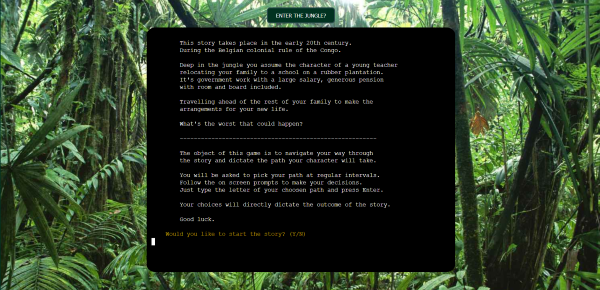
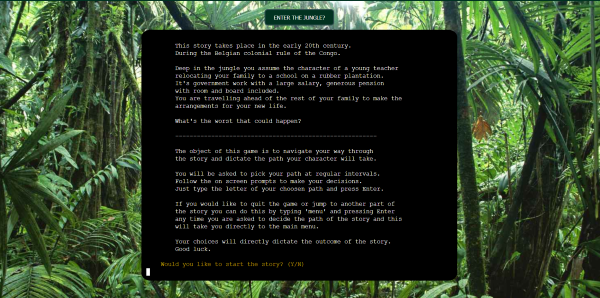
roulette game reworked to include ascii art as prompts

diff --git a/run.py b/run.py
@@ -45,24 +45,23 @@ def russian_roulette():
         Checks if you're dead and continues accordingly.
         '''
         clear_terminal()
-        print(Fore.LIGHTBLUE_EX + ascii_art.CLICK)
-        time.sleep(2)
+        print(Fore.LIGHTBLACK_EX + ascii_art.CLICK)
+        time.sleep(1.5)
         print(Style.RESET_ALL)
         shot = barrel[random.randrange(0, len(barrel))]
         barrel.remove(shot)
         if shot == kill_shot:
             clear_terminal()
             print(Fore.RED + ascii_art.BANG)
-            time.sleep(2)
             game_over()
         else:
             clear_terminal()
-            print(Fore.LIGHTBLUE_EX + ascii_art.EMPTY)
-            time.sleep(2)
+            print(Fore.LIGHTGREEN_EX + ascii_art.EMPTY)
+            time.sleep(1.5)
             clear_terminal()
-            print(Fore.LIGHTBLUE_EX + ascii_art.SURVIVE)
+            print(Fore.CYAN + ascii_art.SURVIVE)
             print(Style.RESET_ALL)
-            time.sleep(2)
+            time.sleep(1.5)
             comp_shot()
 
     def comp_shot():
@@ -72,22 +71,25 @@ def russian_roulette():
         shot = barrel[random.randrange(0, len(barrel))]
         barrel.remove(shot)
         txt_effect(narrative.MANS_TURN)
-        time.sleep(2)
+        time.sleep(1.5)
         clear_terminal()
-        print(Fore.LIGHTBLUE_EX + ascii_art.CLICK)
+        print(Fore.LIGHTBLACK_EX + ascii_art.CLICK)
         if shot == kill_shot:
-            time.sleep(2)
+            time.sleep(1.5)
             clear_terminal()
             print(Fore.RED + ascii_art.BANG)
             print(Style.RESET_ALL)
-            time.sleep(2)
+            time.sleep(1.5)
             survive_game_enter_office()
         else:
-            time.sleep(2)
+            time.sleep(1.5)
             clear_terminal()
-            print(Fore.LIGHTBLUE_EX + ascii_art.EMPTY)
-            time.sleep(2)
+            print(Fore.LIGHTGREEN_EX + ascii_art.EMPTY)
+            time.sleep(1.5)
+            clear_terminal()
+            print(Fore.CYAN + ascii_art.YOUR_TURN)
             print(Style.RESET_ALL)
+            time.sleep(1.5)
             pull_trigger()
 
     pull_trigger()
@@ -253,6 +255,8 @@ def menu():
     elif option == 'q':
         game_over_alive()
     else:
+        print('This is an invalid selection....Please try again...')
+        time.sleep(2)
         menu()
 
 
@@ -260,11 +264,11 @@ def txt_effect(text_to_print):
     '''
     This prints all of the text slowly.
     # '''
-    for character in text_to_print:
-        sys.stdout.write(character)
-        sys.stdout.flush()
-        time.sleep(0.05)
-    # print(text_to_print)
+    # for character in text_to_print:
+    #     sys.stdout.write(character)
+    #     sys.stdout.flush()
+    #     time.sleep(0.05)
+    print(text_to_print)
 
 
 def clear_terminal():
@@ -320,7 +324,6 @@ def begin_game():
     Asks you to begin the game, prints the first
     paragraph and loads the first choice.
     '''
-
     print()
     answer = input(
         Fore.YELLOW + '    Would you like to start the story? (Y/N)\n').lower()
@@ -338,7 +341,7 @@ def begin_game():
                          stay_with_boat
                          )
     elif answer == 'n':
-        game_over()
+        game_over_alive()
     elif answer == 'menu':
         menu()
     else:
@@ -355,8 +358,10 @@ print(Style.RESET_ALL)
 time.sleep(.5)
 name = input('  Please enter your name to continue.......').capitalize()
 while not name or len(name) > 50:
-    name = input('''    Ooops too long, Max of 50 characters...\n
-    Please enter your name to continue....\n''').capitalize()
+    name = input(narrative.NAME_VALIDATION_ERROR).capitalize()
+# while not len(name) < 50:
+#     name = input('''    Ooops too long, Max of 50 characters...\n
+#     Please enter your name to continue....\n''').capitalize()
 
 
 intro_text = f"""

diff --git a/narrative.py b/narrative.py
@@ -1,9 +1,18 @@
 """
 This is the narrative for the story
 """
+
 GO_FISHING = False
 FISH_CAUGHT = 0
 TOTAL_DRINKS = 1
+
+
+NAME_VALIDATION_ERROR = '''
+        Input Invalid
+        Your name must be shorter than 50 characters.
+        Your name cannot be left empty.\n
+        Please enter your name to continue.....
+'''
 
 TITLE_TEXT = '''
         This story takes place in the early 20th century.
@@ -541,59 +550,59 @@ END = '''
 
 '''
 MENU = '''
-                        Where would you like to go?
+                    Where would you like to go?
 
-                                . Act 1
+                    . Act 1
 
-                                . Act 2
+                    . Act 2
 
-                                . Act 3
+                    . Act 3
 
-                                . Quit
+                    . Quit
 
-                        Type 1, 2, 3 or Q followed by Enter to choose.
+                    Type 1, 2, 3 or Q followed by Enter to choose.
 
 '''
 
 ACT_1 = '''
-                Which choice would you like to start with?
+                    Which choice would you like to start with?
 
-                1. Volunteer or Stay on boat?
+                    1. Volunteer or Stay on boat?
 
-                2. Escape boat or Stay to help?
+                    2. Escape boat or Stay to help?
 
-                3. Get angry or Stay calm?
+                    3. Get angry or Stay calm?
 
-                4. Bourbon or Water?
+                    4. Bourbon or Water?
 
-                Chose incorrectly and you will be redirected to
-                the main menu.
+                    Chose incorrectly and you will be redirected to
+                    the main menu.
 '''
 
 ACT_2 = '''
-                Which choice would you like to start with?
+                    Which choice would you like to start with?
 
-                1. Go to the office or the bar?
+                    1. Go to the office or the bar?
 
-                2. Drink or Gamble?
+                    2. Drink or Gamble?
 
-                3. Talk to the girl??
+                    3. Talk to the girl??
 
-                Chose incorrectly and you will be redirected to
-                the main menu.
+                    Chose incorrectly and you will be redirected to
+                    the main menu.
 '''
 
 ACT_3 = '''
-                Which choice would you like to start with?
+                    Which choice would you like to start with?
 
-                1. Begin Act 3?
+                    1. Begin Act 3?
 
-                2. Stay with Ishmel or go with the men?
+                    2. Stay with Ishmel or go with the men?
 
-                3. Board the old boat or wait for the men?
+                    3. Board the old boat or wait for the men?
 
-                4. Leave Africa or go to the plantation?
+                    4. Leave Africa or go to the plantation?
 
-                Chose incorrectly and you will be redirected to
-                the main menu.
+                    Chose incorrectly and you will be redirected to
+                    the main menu.
 '''

diff --git a/ascii_art.py b/ascii_art.py
@@ -202,7 +202,7 @@ CLICK = '''
 
 
 
-                        ██████╗██╗     ██╗ ██████╗██╗  ██╗
+                         ██████╗██╗     ██╗ ██████╗██╗  ██╗
                         ██╔════╝██║     ██║██╔════╝██║ ██╔╝
                         ██║     ██║     ██║██║     █████╔╝
                         ██║     ██║     ██║██║     ██╔═██╗
@@ -251,10 +251,28 @@ SURVIVE = '''
                         ███████║   ██║   ██║███████╗███████╗
                         ╚══════╝   ╚═╝   ╚═╝╚══════╝╚══════╝
 
-                        █████╗ ██╗     ██╗██╗   ██╗███████╗
+                         █████╗ ██╗     ██╗██╗   ██╗███████╗
                         ██╔══██╗██║     ██║██║   ██║██╔════╝
                         ███████║██║     ██║██║   ██║█████╗
                         ██╔══██║██║     ██║╚██╗ ██╔╝██╔══╝
                         ██║  ██║███████╗██║ ╚████╔╝ ███████╗
                         ╚═╝  ╚═╝╚══════╝╚═╝  ╚═══╝  ╚══════╝
+'''
+YOUR_TURN = '''
+
+
+
+
+                        ██╗   ██╗ ██████╗ ██╗   ██╗██████╗
+                        ╚██╗ ██╔╝██╔═══██╗██║   ██║██╔══██╗
+                         ╚████╔╝ ██║   ██║██║   ██║██████╔╝
+                          ╚██╔╝  ██║   ██║██║   ██║██╔══██╗
+                           ██║   ╚██████╔╝╚██████╔╝██║  ██║
+                           ╚═╝    ╚═════╝  ╚═════╝ ╚═╝  ╚═╝
+                        ████████╗██╗   ██╗██████╗ ███╗   ██╗
+                        ╚══██╔══╝██║   ██║██╔══██╗████╗  ██║
+                           ██║   ██║   ██║██████╔╝██╔██╗ ██║
+                           ██║   ██║   ██║██╔══██╗██║╚██╗██║
+                           ██║   ╚██████╔╝██║  ██║██║ ╚████║
+                          ╚═╝    ╚═════╝ ╚═╝  ╚═╝╚═╝  ╚═══╝
 '''

diff --git a/README.md b/README.md
@@ -39,8 +39,7 @@ To deliver a command line game that is interactive, engaging and fun for the use
 ## Theme
 The theme for this project was largely constrained by the criteria that it had to be a command line interface application.
 I still felt the need to incorporate a little design into the project.
-So i chose a jungle scene to serve as the background image, centered the terminal inside the image, centered the 'Enter the Jungle?' button
-above the terminal and colored the button a deep green.
+So i chose a jungle scene to serve as the background image, centered the terminal inside the image, gave the terminal a border with rounded edges, centered the 'Enter the Jungle?' button above the terminal and colored the button a deep green.
 
 During the story/game I also incorporated multiple examples of ascii art. From creating text art for the title page and act markers to images of a 
 boat, a revolver, a fish among others to try and impart a sense of the jungle in the user.
@@ -85,7 +84,7 @@ believe that the finished styles work well with the theme of the story/game and 
 
 I created a flow chart using draw.io. The chart gave me an idea of the flow of the game and how the game would progress, bu keeping this close to hand as i built the project it was possible to
 
-<p align="center"><img src="./docs/pp3%20flow%20chart.jpg"></p>
+![Flow-of-game](./docs/pp3%20flow%20chart.jpg)
 
 
 -------
@@ -117,17 +116,6 @@ I created a flow chart using draw.io. The chart gave me an idea of the flow of t
 
 ![game-over-1](./docs/Game-over-alive.png)
 ![game-over-2](./docs/Game-over-dead.png)
-
-
-[Back to the Top](#table-of-contents)
-
-
-### Data Model
-
-
-### Design  
-
-Design was limited for this project as it was primiarily command line based.  I did however want to give it some element of design so positioned the terminal to the center of the screen to make it look like a tv screen.  I added a background image of a stadium which complimented the quiz.   
 
 
 [Back to the Top](#table-of-contents)
@@ -348,7 +336,6 @@ The website was deployed to heroku by doing the following:
 
 ## Credits 
 
-Initially I looked at Portfolio 3 Projects on the Code Institute Slack Community to get some inspiration.  I found two quiz apps created by [Mike](https://github.com/MikeR94) and [Dave](https://github.com/DaveyJH).  Those two were massive quizzes to follow and honestly a bit overwhelming.  It was from Mike's readme that I saw the blog from [Brock Byrd](https://brockbyrdd.medium.com/).  Like Mike I followed this and primarily used the setup of Brock's questions and answers from this blog.  From this I slowly built my app using the resources mentioned above I made it my own.  I actually really enjoyed putting this together.  
 
 
 
